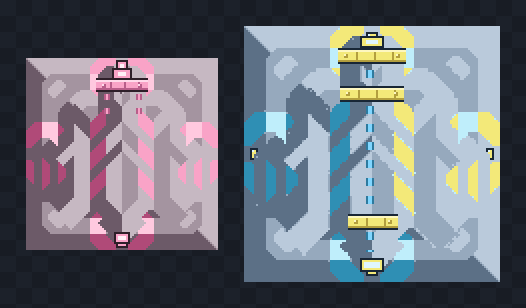
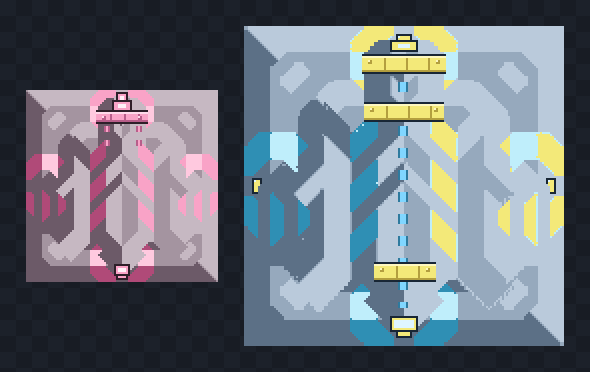
Rescale surge sprite to 5x5 footprint and update docs

diff --git a/tools/generate_sprites.py b/tools/generate_sprites.py
@@ -13,6 +13,10 @@ gets a full palette remap plus hand-placed tier detailing:
                            three accelerator collars, cyan energy spine,
                            cyan emitter core and prong tips.
 
+New blocks should follow the same pipeline: derive the sprite from the matching
+vanilla asset, remap the palette, then add hand-placed tier detailing. This keeps
+every addition visually consistent with the base game.
+
 Usage:  py -3 tools/generate_sprites.py
 """
 
@@ -69,6 +73,12 @@ SURGE = {
     "arc_hi": (232, 251, 255),
 }
 
+# sprite pixel sizes: 32 px per block tile
+THORIUM_SIZE = 96   # 3x3
+SURGE_SIZE = 160    # 5x5
+# surge detail coordinates were designed at this resolution and are scaled from it
+SURGE_DESIGN = 128
+
 
 # ----------------------------------------------------------------------------
 # helpers
@@ -83,7 +93,7 @@ def remap(img, pal, size=None, alpha_cut=110):
 
     Every pixel is snapped to its nearest vanilla palette entry and then to the
     variant's color for that entry, keeping the hard-edged pixel-art look.
-    Optionally resamples first (used for the 4x4 surge sprites).
+    Optionally resamples first (used for the larger surge sprites).
     """
     if size is not None and img.width != size:
         img = img.resize((size, size), Image.LANCZOS)
@@ -156,8 +166,8 @@ def core(img, x0, y0, x1, y1, pal, inset=2):
 # variants
 # ----------------------------------------------------------------------------
 
-def thorium_turret():
-    img = remap(load_vanilla("mass-driver"), THORIUM)
+def thorium_turret(size=THORIUM_SIZE):
+    img = remap(load_vanilla("mass-driver"), THORIUM, size=size)
     # charge rails running down both sides of the barrel
     rail(img, 40, 18, 31, THORIUM, on=3, off=4, width=1)
     rail(img, 56, 18, 31, THORIUM, on=3, off=4, width=1)
@@ -170,8 +180,8 @@ def thorium_turret():
     return img
 
 
-def thorium_base():
-    img = remap(load_vanilla("mass-driver-base"), THORIUM)
+def thorium_base(size=THORIUM_SIZE):
+    img = remap(load_vanilla("mass-driver-base"), THORIUM, size=size)
     d = ImageDraw.Draw(img)
     for (x0, y0, x1, y1) in ((46, 2, 49, 5), (46, 90, 49, 93)):
         d.rectangle([x0 - 1, y0 - 1, x1 + 1, y1 + 1], fill=THORIUM["outline"])
@@ -180,27 +190,38 @@ def thorium_base():
     return img
 
 
-def surge_turret():
-    img = remap(load_vanilla("mass-driver"), SURGE, size=128)
+def surge_turret(size=SURGE_SIZE):
+    k = size / SURGE_DESIGN
+
+    def s(v):
+        return int(v * k + 0.5)
+
+    img = remap(load_vanilla("mass-driver"), SURGE, size=size)
     # cyan energy spine down the barrel centre (collars are drawn over it)
-    rail(img, 62, 22, 112, SURGE, on=4, off=5, width=2,
-         color=SURGE["arc"], edge=SURGE["arc_dark"])
+    rail(img, s(62), s(22), s(112), SURGE, on=max(1, s(4)), off=max(1, s(5)),
+         width=max(1, s(2)), color=SURGE["arc"], edge=SURGE["arc_dark"])
     # three accelerator collars, slightly wider than the barrel
-    band(img, 47, 80, 11, 8, SURGE, "G", seams=9)
-    band(img, 48, 79, 30, 8, SURGE, "G", seams=9)
-    band(img, 52, 76, 94, 8, SURGE, "G", seams=9)
+    band(img, s(47), s(80), s(11), max(4, s(8)), SURGE, "G", seams=max(2, s(9)))
+    band(img, s(48), s(79), s(30), max(4, s(8)), SURGE, "G", seams=max(2, s(9)))
+    band(img, s(52), s(76), s(94), max(4, s(8)), SURGE, "G", seams=max(2, s(9)))
     # emitter core between the twin muzzle rails
-    core(img, 59, 6, 68, 9, SURGE)
+    core(img, s(59), s(6), s(68), s(9), SURGE, inset=max(1, s(2)))
     # rear prong tip
-    core(img, 59, 117, 68, 121, SURGE, inset=1)
+    core(img, s(59), s(117), s(68), s(121), SURGE, inset=max(1, s(1)))
     return img
 
 
-def surge_base():
-    img = remap(load_vanilla("mass-driver-base"), SURGE, size=128)
+def surge_base(size=SURGE_SIZE):
+    k = size / SURGE_DESIGN
+
+    def s(v):
+        return int(v * k + 0.5)
+
+    img = remap(load_vanilla("mass-driver-base"), SURGE, size=size)
     d = ImageDraw.Draw(img)
     ticks = ((61, 3, 66, 6), (61, 121, 66, 124), (3, 61, 6, 66), (121, 61, 124, 66))
     for (x0, y0, x1, y1) in ticks:
+        x0, y0, x1, y1 = s(x0), s(y0), s(x1), s(y1)
         d.rectangle([x0, y0, x1, y1], fill=SURGE["outline"])
         d.rectangle([x0 + 1, y0 + 1, x1 - 1, y1 - 1], fill=SURGE["G"])
         d.point([x0 + 1, y0 + 1], fill=SURGE["core"])
@@ -256,8 +277,8 @@ def make_icon(size=128):
 
 def make_preview(jobs, scale=2, pad=26, gap=26):
     tiles = []
-    for name, _size, _pal, turret, base in jobs:
-        tile = Image.alpha_composite(base(), turret())
+    for name, size, _pal, turret, base in jobs:
+        tile = Image.alpha_composite(base(size), turret(size))
         tiles.append(tile.resize((tile.width * scale, tile.height * scale), Image.NEAREST))
 
     w = pad * 2 + sum(t.width for t in tiles) + gap * (len(tiles) - 1)
@@ -285,13 +306,13 @@ def main():
     os.makedirs(DOCS, exist_ok=True)
 
     jobs = [
-        ("thorium-mass-driver", 96, THORIUM, thorium_turret, thorium_base),
-        ("surge-mass-driver", 128, SURGE, surge_turret, surge_base),
+        ("thorium-mass-driver", THORIUM_SIZE, THORIUM, thorium_turret, thorium_base),
+        ("surge-mass-driver", SURGE_SIZE, SURGE, surge_turret, surge_base),
     ]
 
     for name, size, pal, turret, base in jobs:
-        base().save(os.path.join(SPRITES, name + "-base.png"))
-        turret().save(os.path.join(SPRITES, name + ".png"))
+        base(size).save(os.path.join(SPRITES, name + "-base.png"))
+        turret(size).save(os.path.join(SPRITES, name + ".png"))
         print(f"wrote {name} ({size}x{size})")
 
     make_icon().save(os.path.join(ROOT, "icon.png"))

diff --git a/README.md b/README.md
@@ -11,7 +11,7 @@ a **Thorium Mass Driver** and a **Surge Mass Driver**.
 | --- | --- | --- | --- | --- | --- | --- | --- |
 | Mass Driver (vanilla) | 3×3 | 380 | 120 | 440 (55 tiles) | 200 | 1.75 | — |
 | **Thorium Mass Driver** | 3×3 | 760 | 180 | 640 (80 tiles) | 150 | 3 | Mass Driver |
-| **Surge Mass Driver** | 4×4 | 1850 | 320 | 880 (110 tiles) | 110 | 5 | Thorium Mass Driver |
+| **Surge Mass Driver** | 5×5 | 1850 | 520 | 1200 (150 tiles) | 110 | 10 | Thorium Mass Driver |
 
 Both blocks are in the **Distribution** category and behave exactly like the vanilla
 mass driver: they link to a matching driver, buffer items, and launch payloads when
@@ -29,7 +29,7 @@ its own signature:
   yellow spark streaks, and a cyan smoke puff. Shells leave a yellow trail with a
   cyan glow.
 
-Both tiers also use a stronger screen shake than vanilla (4 and 5.5 vs. 3) so the
+Both tiers also use a stronger screen shake than vanilla (4 and 10 vs. 3) so the
 larger drivers feel heavier when they fire.
 
 ### Costs
@@ -40,6 +40,7 @@ larger drivers feel heavier when they fire.
 - 175 titanium
 - 150 silicon
 - 100 lead
+- 300 copper
 
 **Surge Mass Driver**
 
@@ -48,6 +49,7 @@ larger drivers feel heavier when they fire.
 - 250 silicon
 - 300 titanium
 - 60 phase fabric
+- 300 graphite
 
 ## Installation
 
@@ -75,8 +77,12 @@ remaps it onto a tier palette, then adds the tier detailing:
   prong tip.
 - **Surge** — blue steel with cyan plating and surge-yellow accents; three
   accelerator collars, a cyan energy spine, a cyan/yellow emitter core and cyan
-  edge ticks on the base. The 4×4 art is upscaled from the vanilla bitmap and
+  edge ticks on the base. The 5×5 art is upscaled from the vanilla bitmap and
   re-quantized so it stays crisp pixel art.
+
+Future blocks should follow the same pipeline: derive from the matching vanilla
+asset, remap the palette, then add hand-placed tier detailing. This keeps every
+addition visually consistent with the base game.
 
 All sprites and the mod icon are generated with [Pillow](https://python-pillow.org/),
 so they can be re-rendered after tweaking the palettes or geometry:
@@ -88,7 +94,7 @@ py -3 tools/generate_sprites.py
 This writes:
 
 - `sprites/thorium-mass-driver.png` / `-base.png` (96×96, 3×3)
-- `sprites/surge-mass-driver.png` / `-base.png` (128×128, 4×4)
+- `sprites/surge-mass-driver.png` / `-base.png` (160×160, 5×5)
 - `icon.png` (128×128)
 - `docs/preview.png` (README preview sheet)
 
